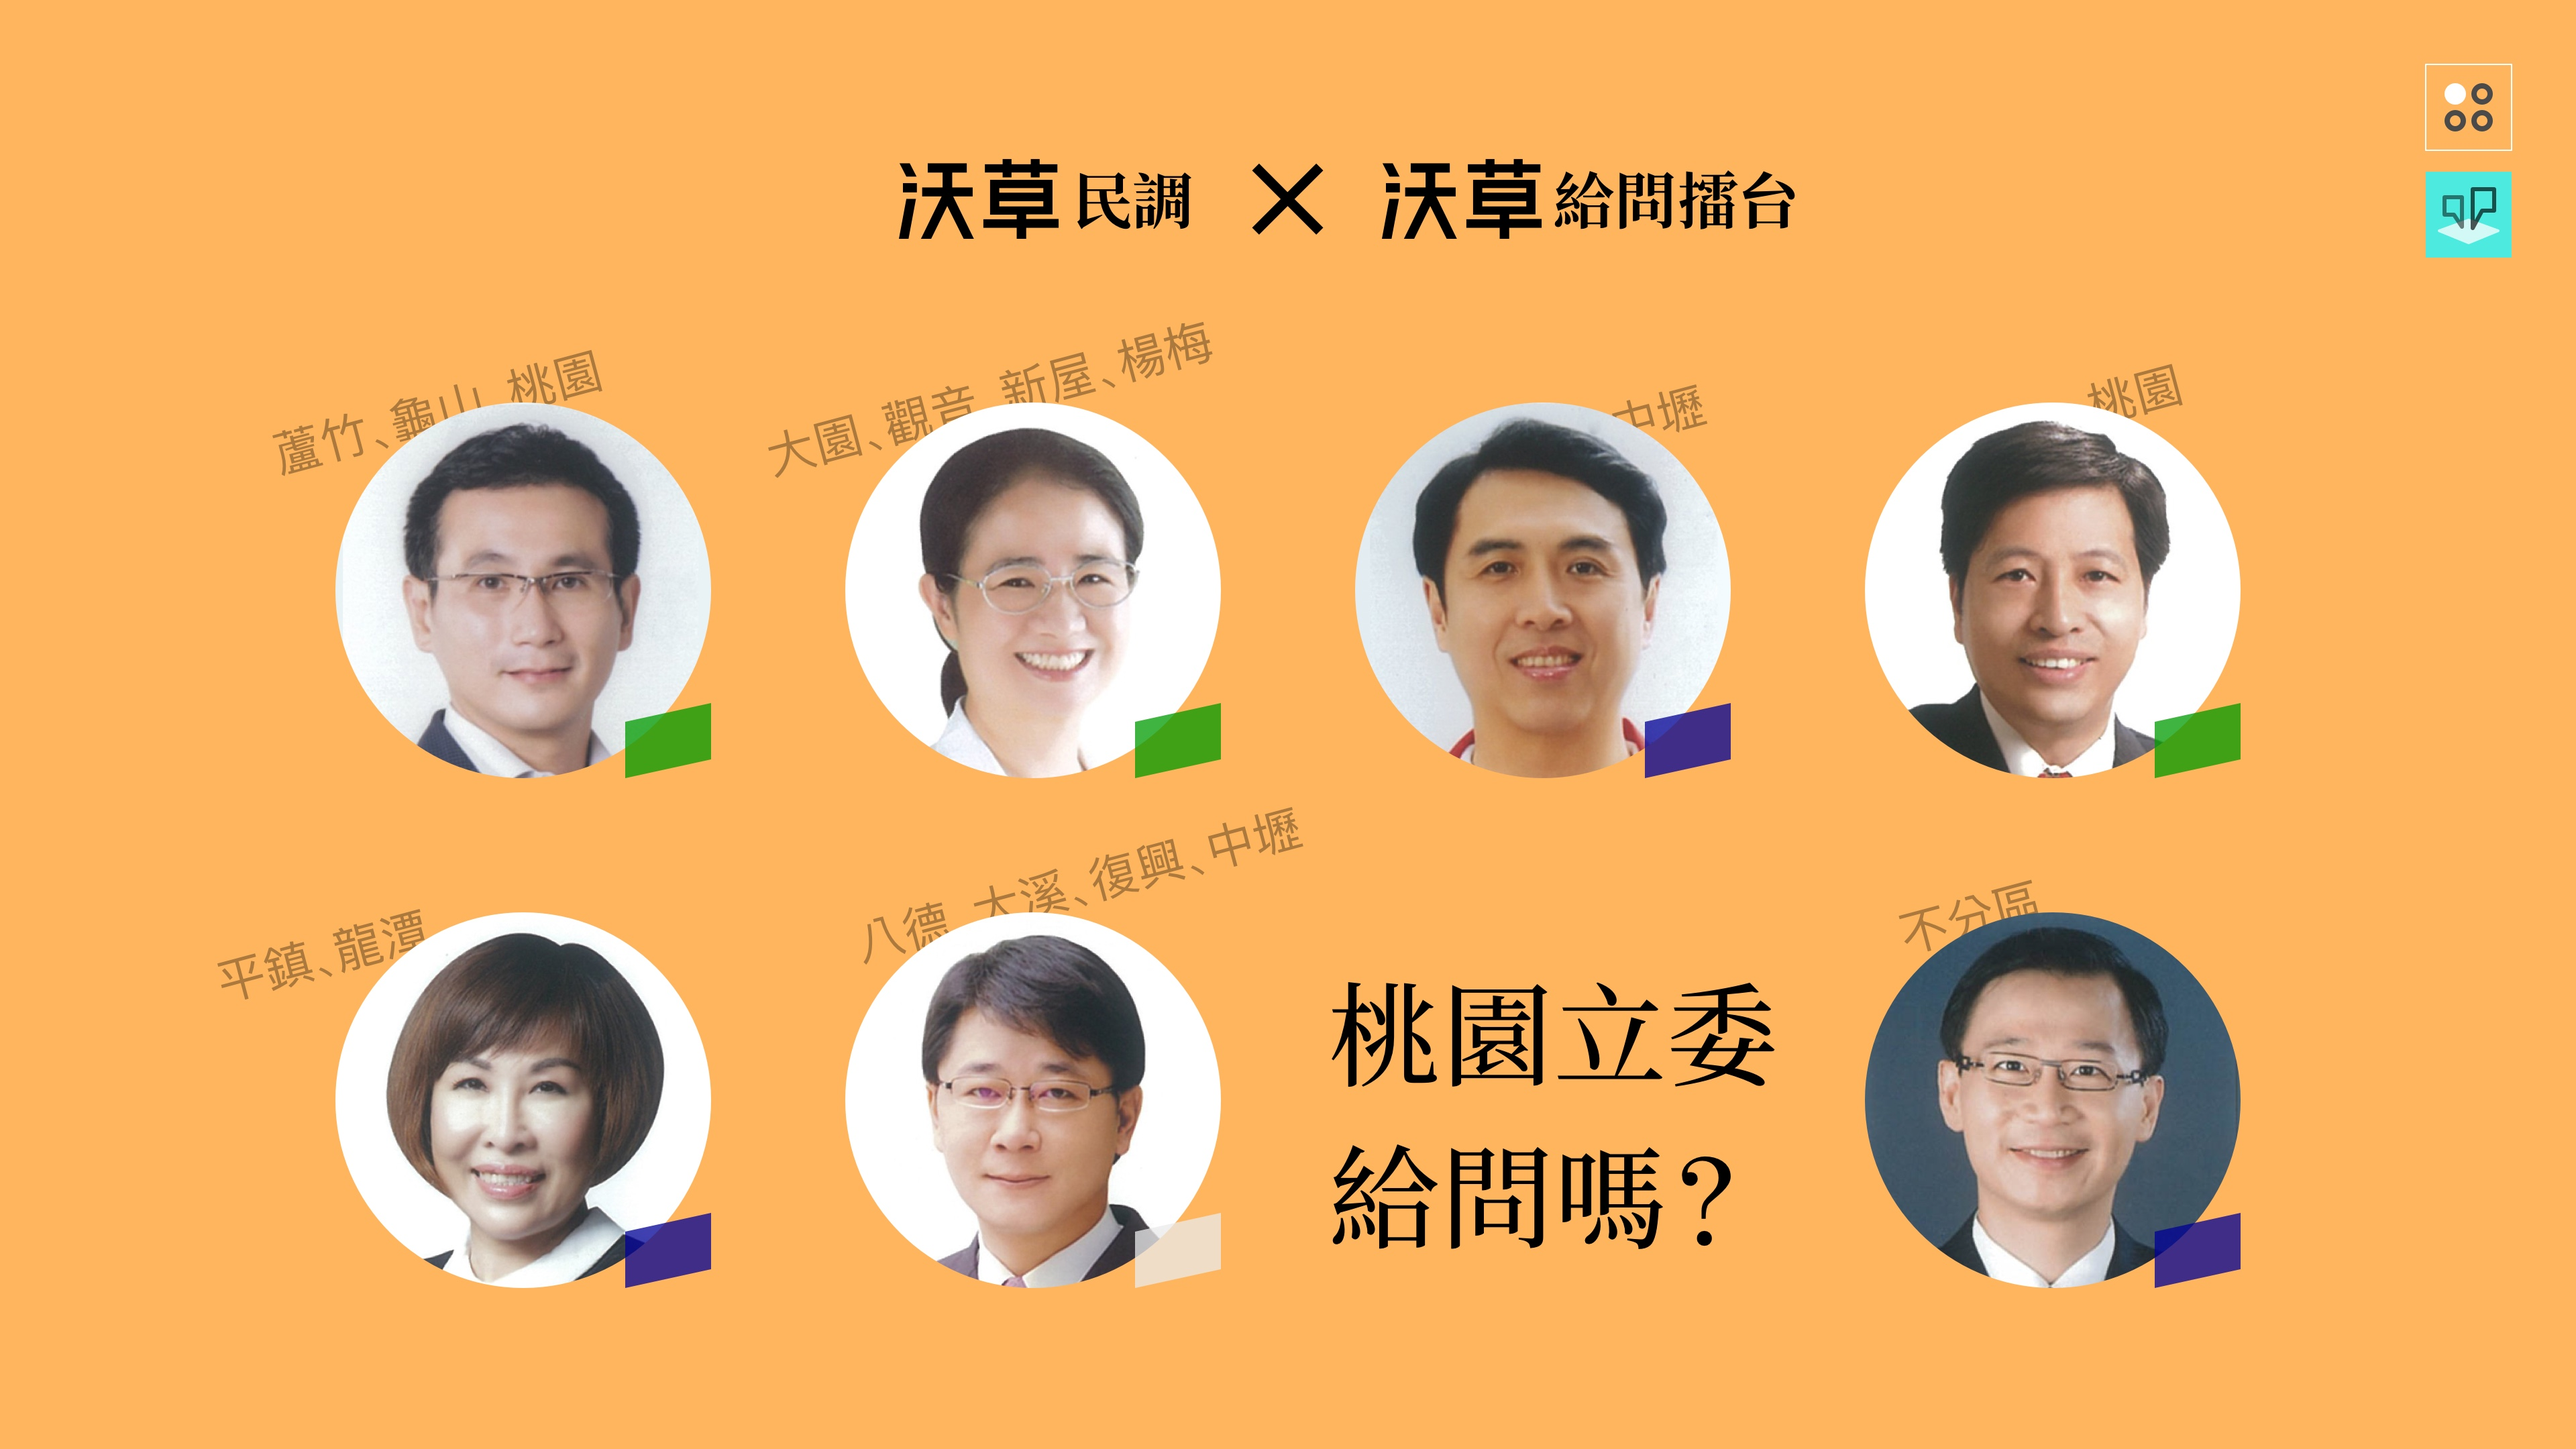
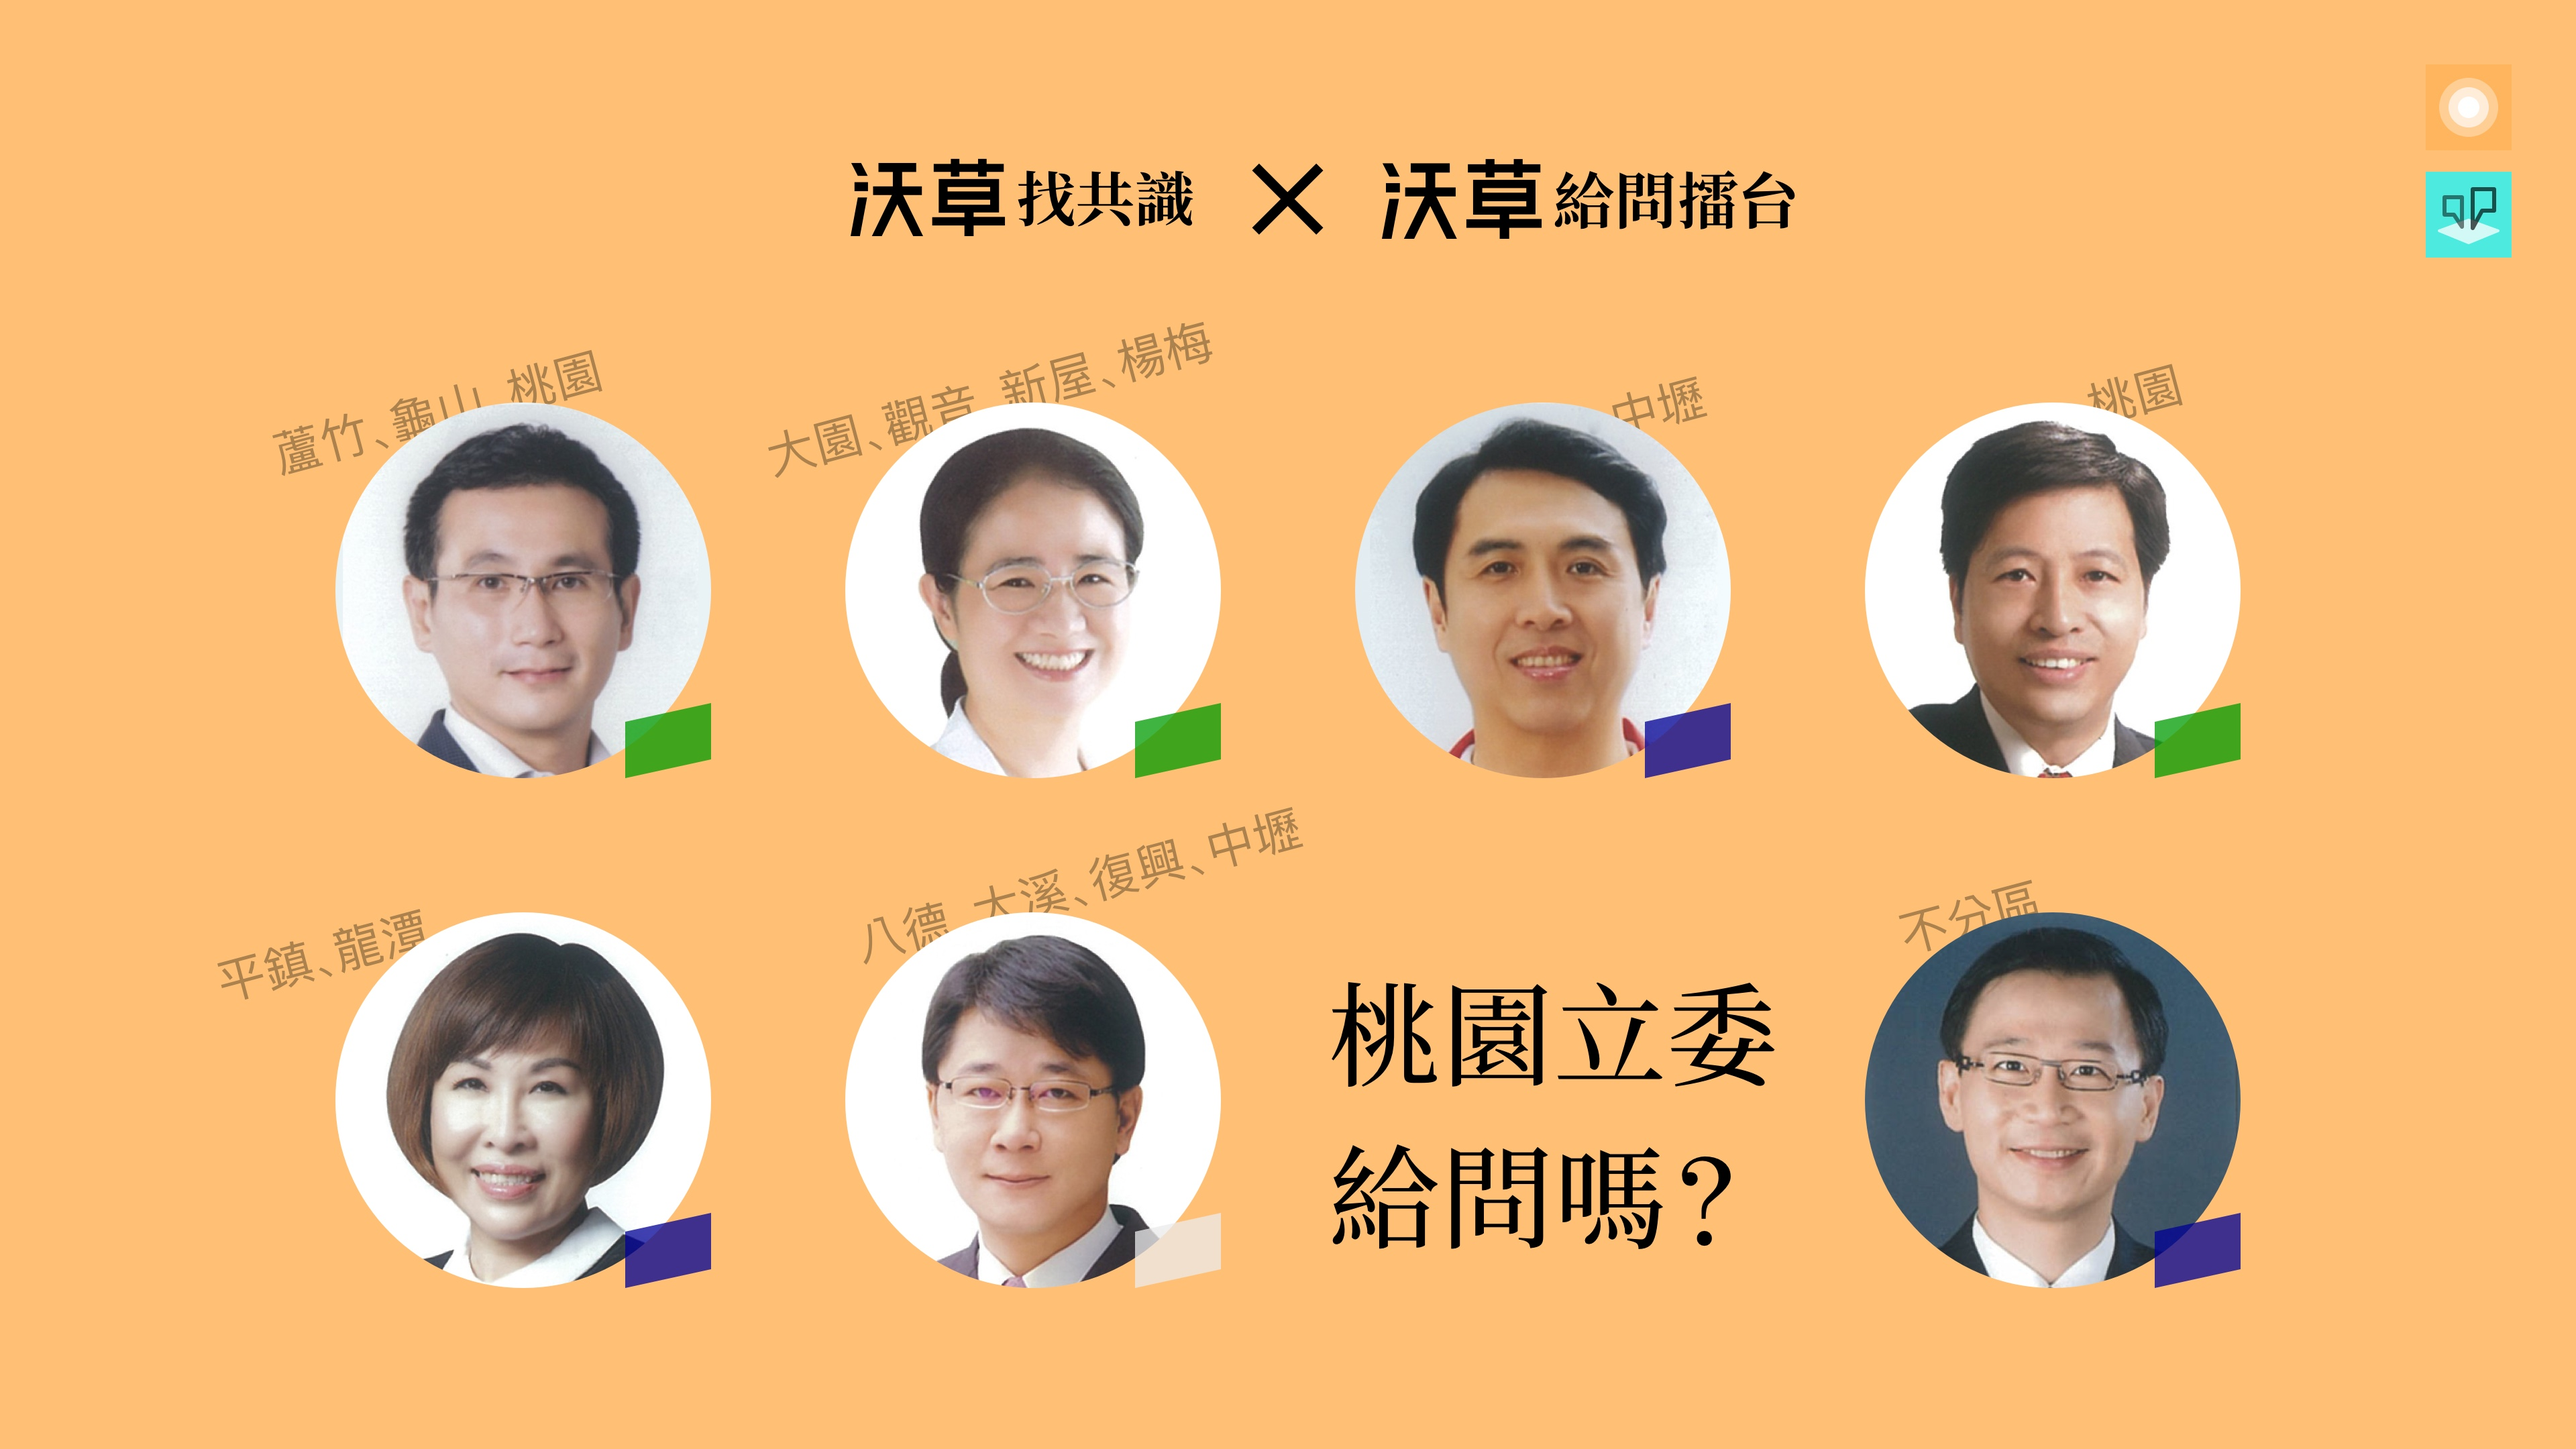
poll → kangsim

diff --git a/src/components/PollingStation.vue b/src/components/PollingStation.vue
@@ -12,12 +12,17 @@ import polls from '@/data/polls' // FIXME: GET /park/polls
 export default {
   metaInfo() {
     return {
-      title: this.config ? `沃草→民調←${this.config.name}↑` : '沃草→民調←',
+      title: this.config ? `沃草→找共識←${this.config.name}↑` : '沃草→找共識←',
       meta: [
+        {
+          vmid: 'description',
+          name: 'description',
+          content: this.config ? this.config.description : '沃草找共識'
+        },
         {
           vmid: 'og-image',
           property: 'og:image',
-          content: this.config ? require(`_/polls/${this.config.slug}.jpg`) : require('_/polls_open.png')
+          content: this.config ? require(`_/polls/${this.config.slug}.jpg`) : require('_/finding_consensus.png')
         }
       ]
     }
@@ -29,7 +34,7 @@ export default {
     }
   },
   beforeMount() {
-    this.$emit('update:channel', dataStore.channels.poll)
+    this.$emit('update:channel', dataStore.channels.kangsim)
     this.config = polls.filter(poll => poll.slug === this.$route.params.slug).pop()
   },
   components: {

diff --git a/src/components/Polls.vue b/src/components/Polls.vue
@@ -22,12 +22,12 @@ import polls from '@/data/polls' // FIXME: eventually use GET /park/polls
 export default {
   metaInfo() {
     let infoObj = {
-      title: '沃草→民調←',
+      title: '沃草→找共識←',
       meta: [
         {
           vmid: 'og-image',
           property: 'og:image',
-          content: require('_/polls_open.png')
+          content: require('_/finding_consensus.png')
         }
       ]
     }
@@ -36,13 +36,13 @@ export default {
   props: ['channel'],
   data() {
     return {
-      keyVisual: require('_/polls_open.png'),
+      keyVisual: require('_/finding_consensus.png'),
       polls
     }
   },
   methods: {
     pollPath(poll) {
-      return '/polls/' + poll.slug
+      return '/kangsim/' + poll.slug
     },
     pollIsNew(poll) {
       return poll.status === 'new'
@@ -53,7 +53,7 @@ export default {
     }
   },
   beforeMount() {
-    this.$emit('update:channel', dataStore.channels.poll)
+    this.$emit('update:channel', dataStore.channels.kangsim)
   }
 }
 </script>

diff --git a/src/router/index.js b/src/router/index.js
@@ -19,13 +19,13 @@ export default new Router({
       component: Park
     },
     {
-      path: '/polls',
-      name: 'polls',
+      path: '/kangsim',
+      name: 'kangsim-list',
       component: Polls
     },
     {
-      path: '/polls/:slug',
-      name: 'poll',
+      path: '/kangsim/:slug',
+      name: 'kangsim-poll',
       component: PollingStation
     }
   ]
